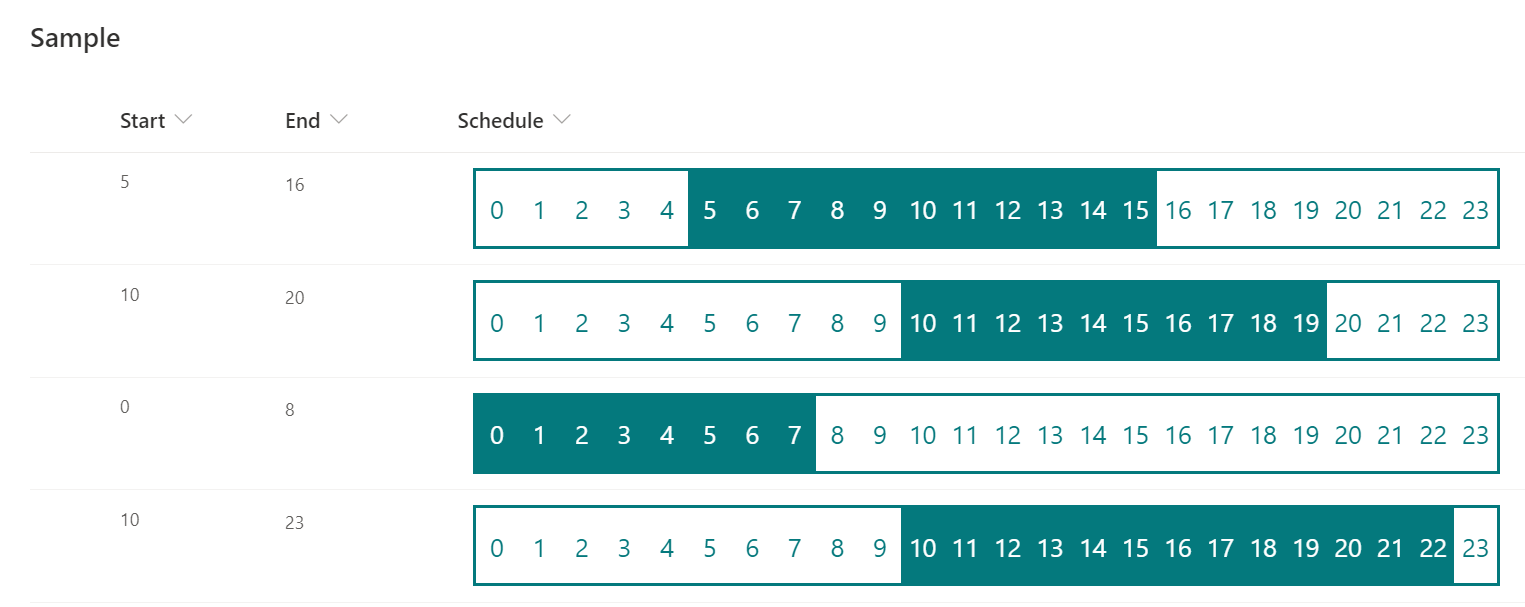
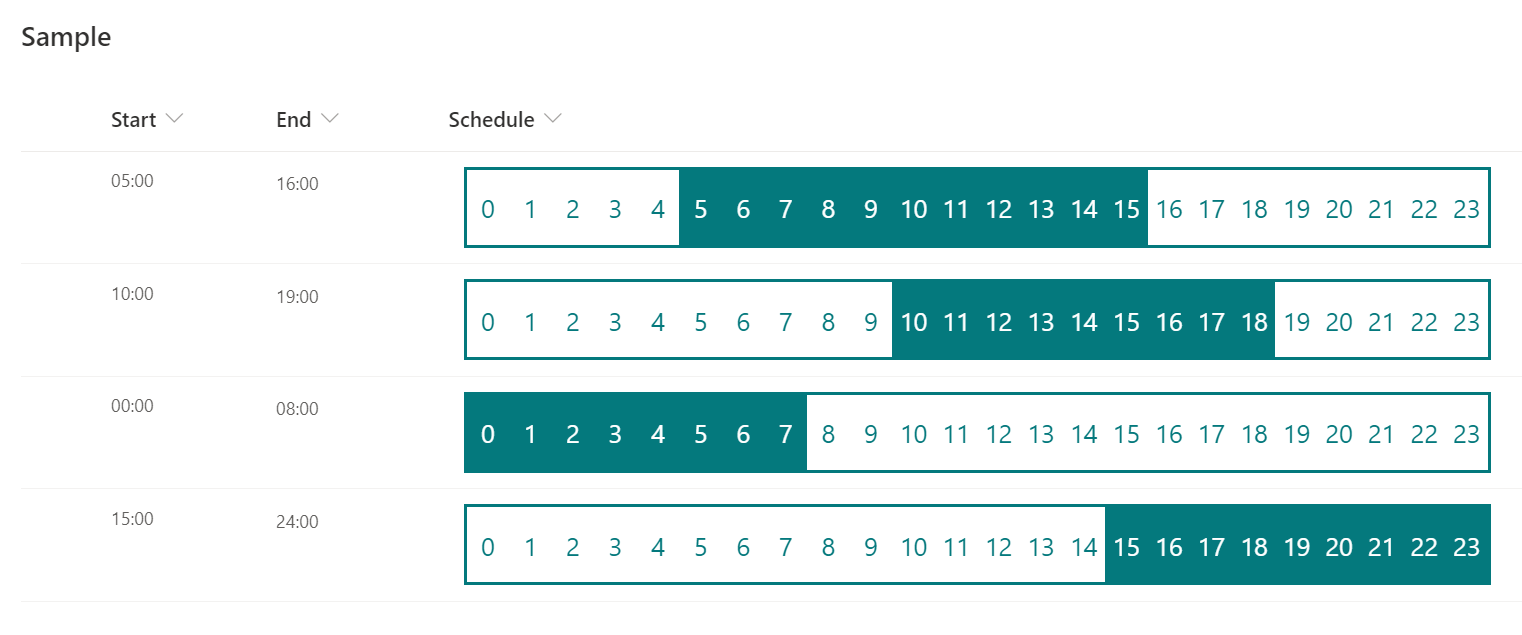
Updated time

diff --git a/column-samples/generic_time_schedule/README.md b/column-samples/generic_time_schedule/README.md
@@ -14,7 +14,7 @@ Start         |Choice
 End           |Choice
 Schedule      |Any
 
-`Start` and `End` columns are choice columns that allow you to select from 0 to 24.
+`Start` and `End` columns are choice columns that allow you to select from 00:00 to 24:00.
 
 ## Sample
 
